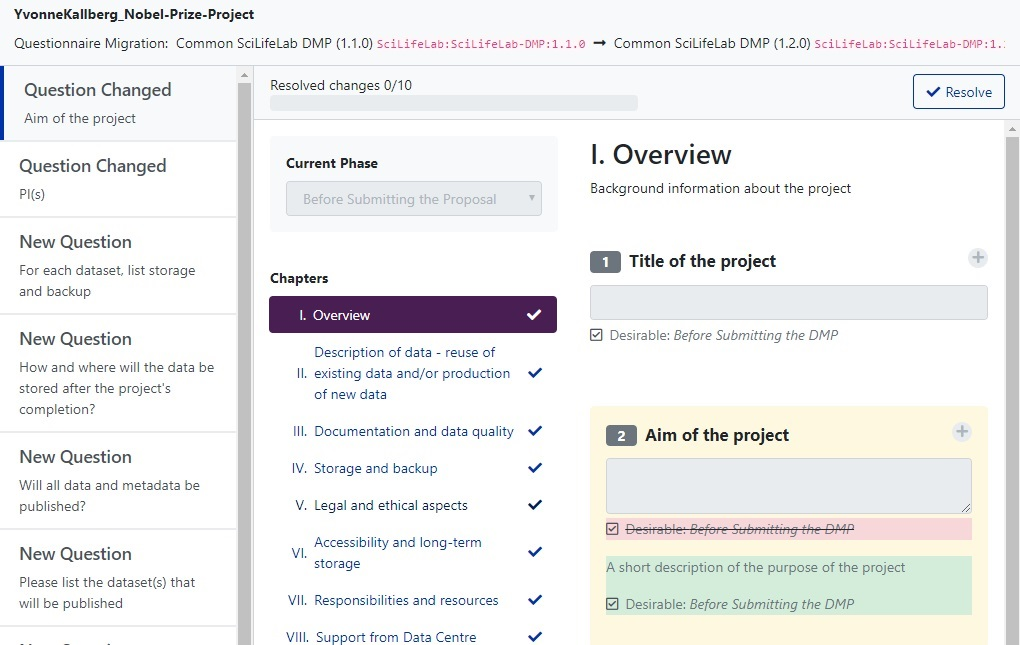
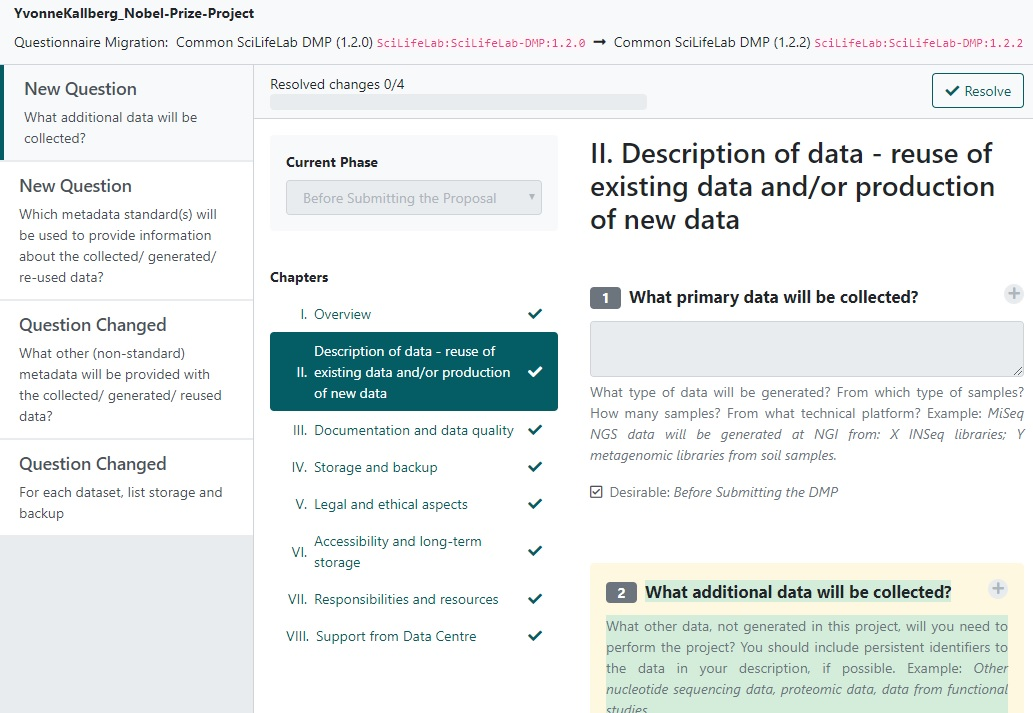
Update to prod colors
Update of all pictures to production instance colors and DSW 2.0 look. Also added information about Documents (former Export) function

diff --git a/dsw_instructions/export_questionnaire.html b/dsw_instructions/export_questionnaire.html
@@ -25,13 +25,18 @@
 	</div>
     <div class="container">
       <div class="Public_BookReference">
-        <h1>Instructions on how to export a Questionnaire</h1>
+        <h1>Instructions on how to create a DMP from a Questionnaire</h1>
 		<p>
-            When the DMP is completed, you can download it to your computer using the <b>Export</b>
+            When the Questionnaire is completed, you can create a Data Management Plan file 
+            using the <b>Create Document</b>
 			function.<br><br>
             <img src="./export_questionnaire.jpg" alt="export_questionnaire_image">
 		</p>
-        <p> <br><br>There are currently three export templates:
+        <p> <br><br>
+          First write a name, including some type of version-identifying word (eg a number, 
+          the project phase, funder, etc) for this version of the DMP. <br><br>
+          Then select a template (has directions on what to include in the DMP), 
+          there are currently three types of templates:
 		  <ul>
 			  <li>SciLifeLab Full - Contains, in addition to the questions and answers, also the guidance.</li>
 			  <li>ScilifeLab Minimal - Will reduce output somewhat, removing the guidance, 
@@ -40,9 +45,15 @@
 			  is the base for a questionnaire, since it also contains summary report. 
 			  </li> 
 		  </ul>
-		  <br>Click on the file format you want (typically PDF or MS Word), and finally click <b>Download</b>.
+		  <br>Finally, click on the file format you want (typically PDF or MS Word), and then click <b>Create</b>.
 		</p> 
-		<img src="./template_questionnaire.jpg" alt="template_questionnaire_image">			
+    <img src="./template_questionnaire.jpg" alt="template_questionnaire_image">		
+    <p><br><br>All versions created can be found via <b>Documents</b> in the left-hand side menu.
+    This is also an alternative way to create a DMP from a Questionnaire.</p>	
+    <img src="./export_document_view.jpg" alt="export_document_view_image">
+    <p><br><br>Click on the document and select <b>Download</b> in order to save a copy on your computer. 
+      <i>Note that the <b>Submit</b> option is not implemented currently.</i></p>
+    <img src="./export_document_download.jpg" alt="export_document_download_image">
       </div>
     </div>
 	<div class="public">

diff --git a/dsw_instructions/index.html b/dsw_instructions/index.html
@@ -44,7 +44,7 @@
 			<p>
 			<ul>
               <li><a href="./get_started_questionnaire.html"> Create a Questionnaire </a></li>
-			  <li><a href="./export_questionnaire.html"> Export a Questionnaire </a></li>
+			  <li><a href="./export_questionnaire.html"> Create a DMP document from a Questionnaire </a></li>
 			  <li><a href="./migrate_questionnaire.html"> Update an outdated Questionnaire </a></li>
 			  <li><a href="./clone_questionnaire.html"> Create a copy of existing Questionnaire </a></li>
 			  <li><a href="https://dsw-docs.readthedocs.io/en/latest/user/tutorial.html"> Work with the Knowledge Model Editor (external link for Data Stewards)</a>
